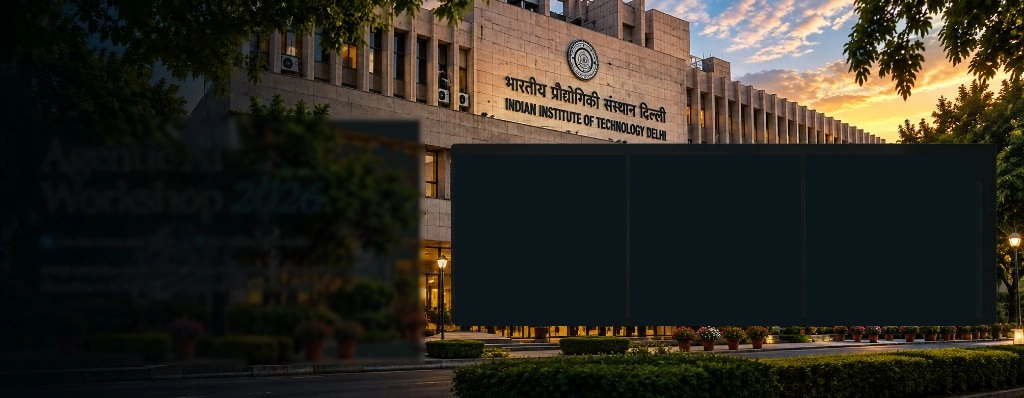
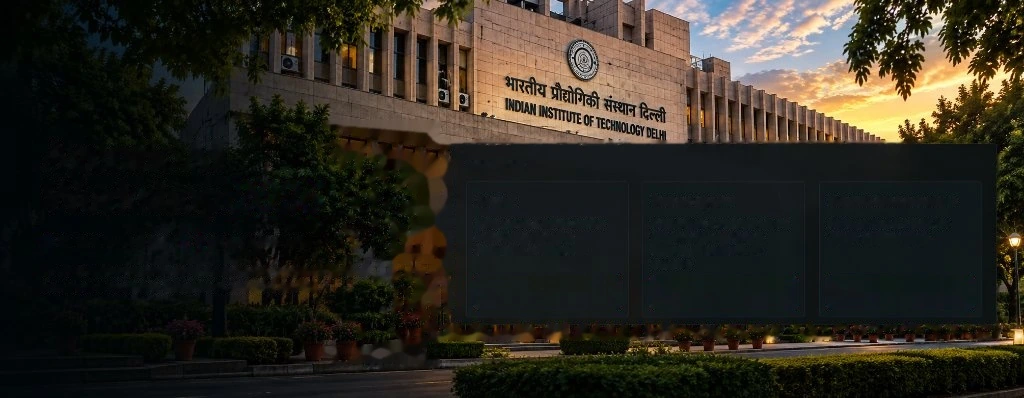
Remove harsh box behind 2026 and apply smooth natural background gradient

diff --git a/static/styles.css b/static/styles.css
@@ -2962,7 +2962,7 @@ img {
   background-image: url("photos/iitd-campus.webp");
   background-size: cover;
   background-position: 56% 0%;
-  filter: saturate(1.05) contrast(1.04) brightness(.92);
+  filter: saturate(1.05) contrast(1.02) brightness(.94);
 }
 
 .hero-bg::after {
@@ -2971,15 +2971,16 @@ img {
   inset: 0;
   background:
     linear-gradient(90deg,
-      rgba(8, 13, 16, 0.96) 0%,
-      rgba(8, 13, 16, 0.90) 30%,
-      rgba(8, 13, 16, 0.65) 42%,
-      transparent 52%),
+      rgba(8, 13, 16, 0.85) 0%,
+      rgba(8, 13, 16, 0.72) 28%,
+      rgba(8, 13, 16, 0.45) 45%,
+      rgba(8, 13, 16, 0.15) 65%,
+      transparent 82%),
     linear-gradient(to bottom,
-      rgba(8, 13, 16, 0.45) 0%,
-      transparent 14%,
-      transparent 80%,
-      rgba(8, 13, 16, 0.85) 100%);
+      rgba(8, 13, 16, 0.35) 0%,
+      transparent 12%,
+      transparent 82%,
+      rgba(8, 13, 16, 0.75) 100%);
 }
 
 @media (max-width: 860px) {
@@ -2990,10 +2991,10 @@ img {
   .hero-bg::after {
     background:
       linear-gradient(to bottom,
-        rgba(8, 13, 16, 0.88) 0%,
-        rgba(8, 13, 16, 0.70) 22%,
-        rgba(8, 13, 16, 0.85) 60%,
-        rgba(8, 13, 16, 0.98) 100%);
+        rgba(8, 13, 16, 0.84) 0%,
+        rgba(8, 13, 16, 0.65) 24%,
+        rgba(8, 13, 16, 0.78) 58%,
+        rgba(8, 13, 16, 0.95) 100%);
   }
 
   .hero-panel {
